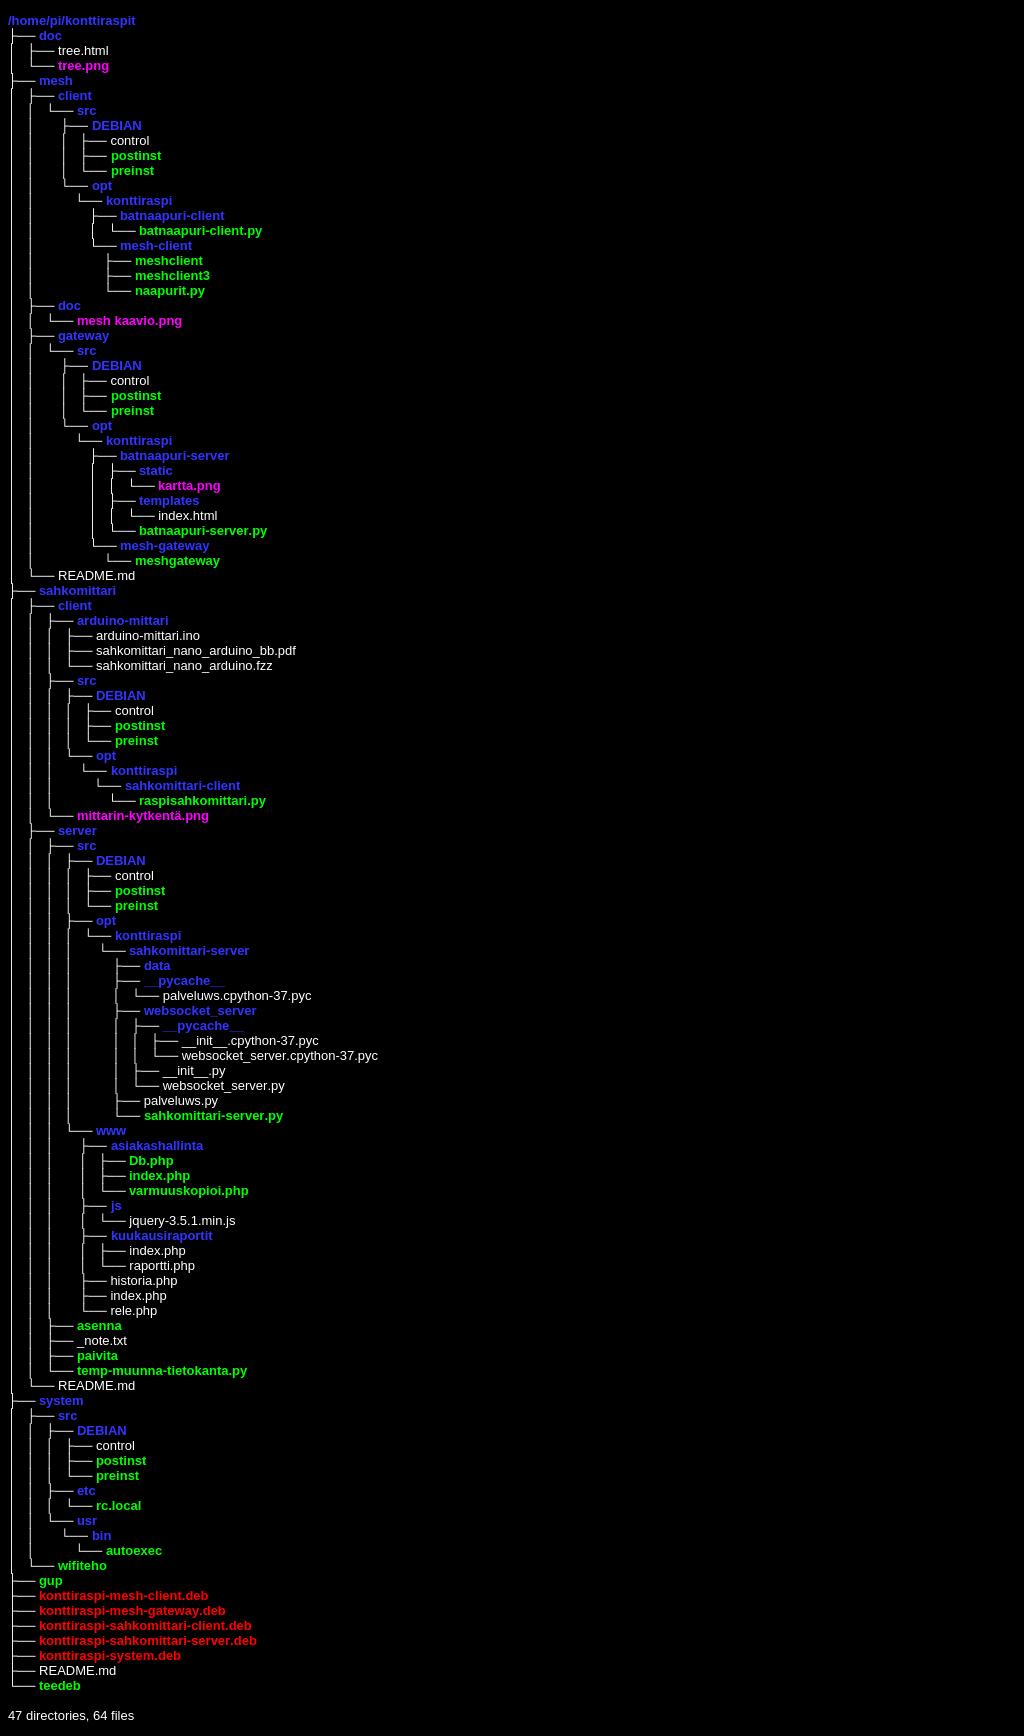
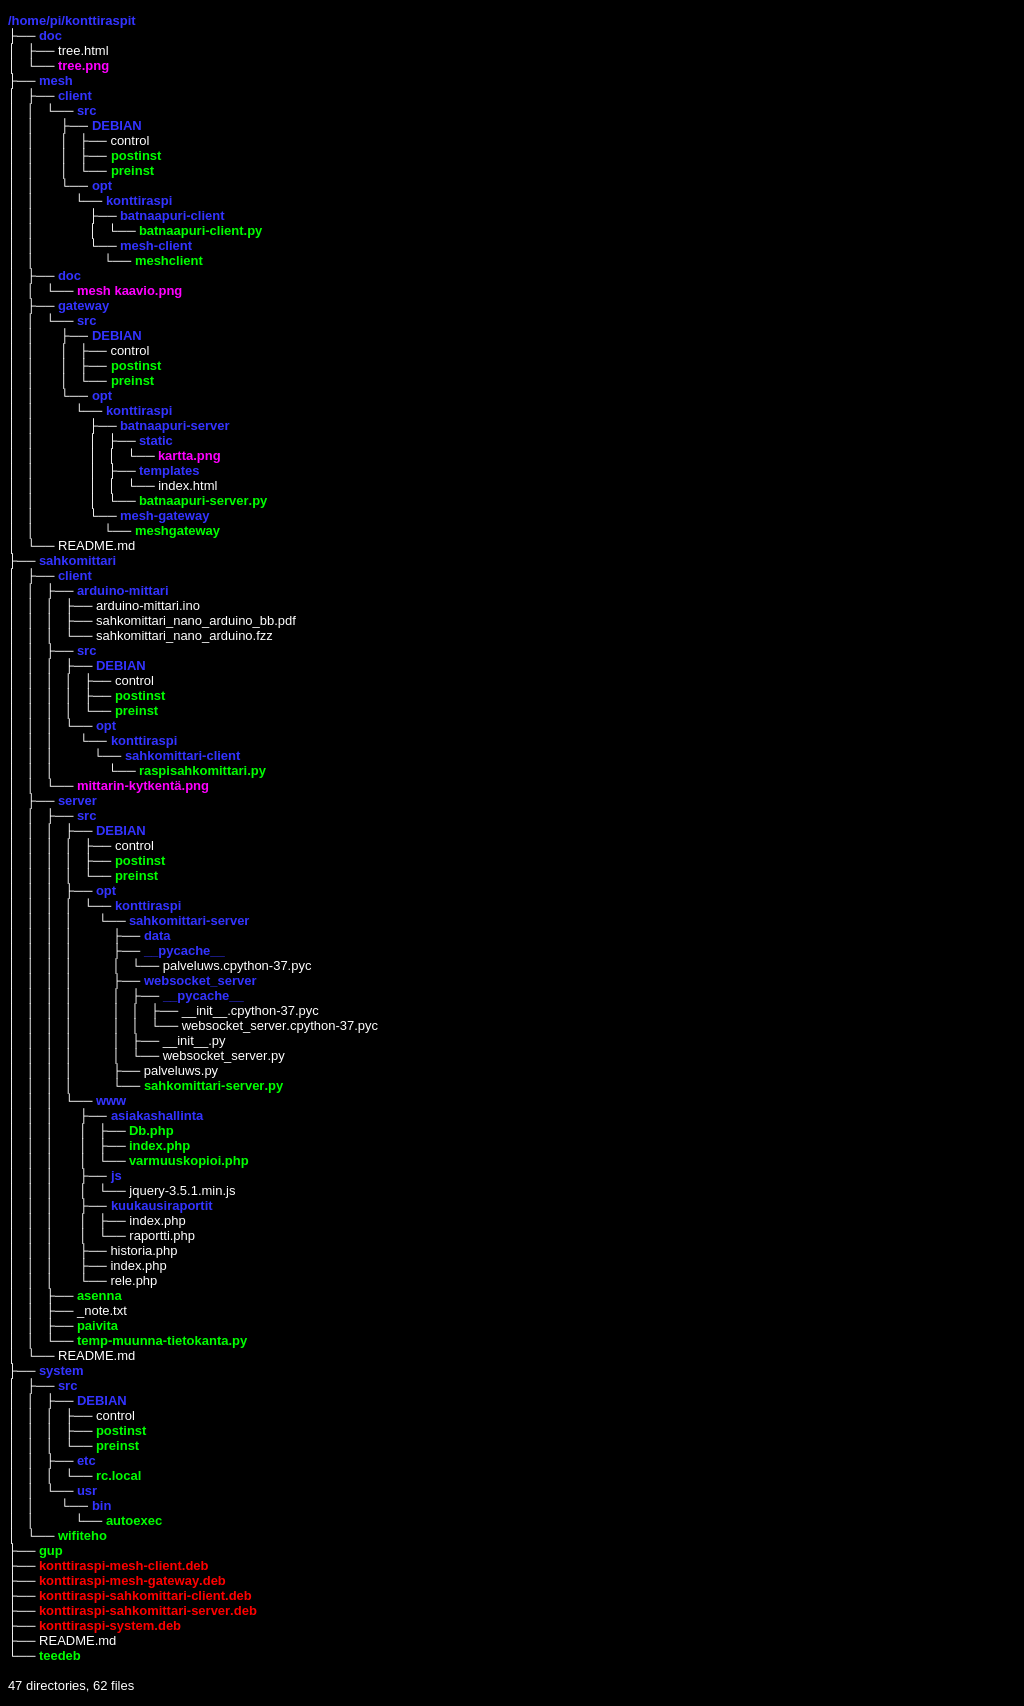
gup

Changed region(s): [[0.0, 0.0, 0.375, 0.9941]]

diff --git a/doc/tree.html b/doc/tree.html
@@ -24,9 +24,7 @@
 │   │               ├── <span style="font-weight:bold;color:#3333FF;">batnaapuri-client</span>
 │   │               │   └── <span style="font-weight:bold;color:lime;">batnaapuri-client.py</span>
 │   │               └── <span style="font-weight:bold;color:#3333FF;">mesh-client</span>
-│   │                   ├── <span style="font-weight:bold;color:lime;">meshclient</span>
-│   │                   ├── <span style="font-weight:bold;color:lime;">meshclient3</span>
-│   │                   └── <span style="font-weight:bold;color:lime;">naapurit.py</span>
+│   │                   └── <span style="font-weight:bold;color:lime;">meshclient</span>
 │   ├── <span style="font-weight:bold;color:#3333FF;">doc</span>
 │   │   └── <span style="font-weight:bold;color:fuchsia;">mesh kaavio.png</span>
 │   ├── <span style="font-weight:bold;color:#3333FF;">gateway</span>
@@ -121,7 +119,7 @@
 ├── README.md
 └── <span style="font-weight:bold;color:lime;">teedeb</span>
 
-47 directories, 64 files
+47 directories, 62 files
 </pre>
 </body>
 </html>
